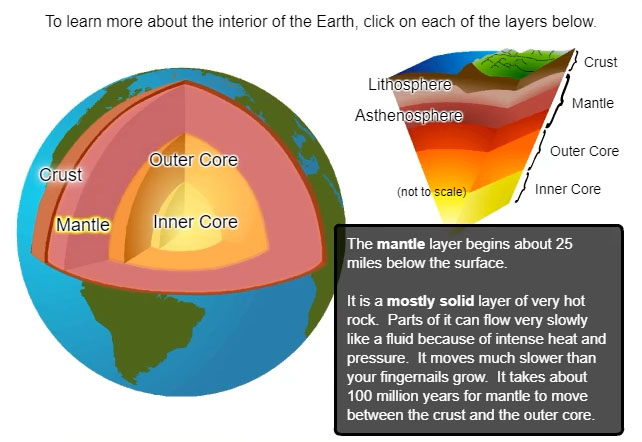
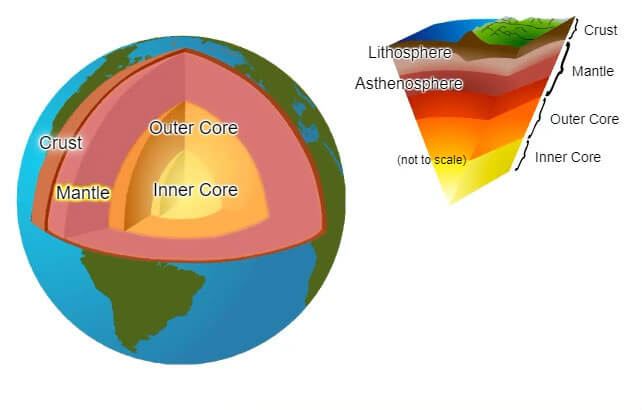
Added keyboard accesibility and ARIA attributes, moved intro and layer description text out of images into HTML elements

diff --git a/layers-of-the-earth.html b/layers-of-the-earth.html
@@ -1,88 +1,228 @@
 <style>
-  .layer {
-    cursor: pointer;
+  html {
+    box-sizing: border-box;
+    font-size: 15px;
+    font-family: Roboto, 'Helvetica Neue', sans-serif;
   }
+
+  body {
+    margin: 0;
+    padding: 8px;
+  }
+
+  *, *:before, *:after {
+    box-sizing: inherit;
+  }
+
+  h1, h2, h3, h4, h5, h6 {
+    margin: 0;
+    padding: 0;
+  }
+
+  p {
+    margin: 8px 0;
+  }
+
+  h4 {
+    text-align: center;
+  }
+
+  #layers {
+    display: block;
+    margin: auto;
+    max-width: 100%;
+    height: auto;
+    max-height: 410px;
+  }
+
   .layer:hover {
     fill: rgb(50, 205, 50, 0.6);
+  }
+
+  .layer-description {
+    border: 2px solid black;
+    border-radius: 6px;
+    max-width: 600px;
+    margin: 0 auto;
+    padding: 0 8px;
+    background-color: black;
+    background-color: rgba(0,0,0,0.7);
+    color: white;
   }
 </style>
 <script>
   function setImage(layerName) {
+    event.preventDefault();
     document.getElementById('layerImage').setAttribute('xlink:href', `${layerName}.jpg`);
+    var tabs = document.querySelectorAll('[role=tab]');
+    for (t = 0; t < tabs.length; t++) {
+      tabs[t].setAttribute('aria-selected', false);
+    }
+    event.currentTarget.setAttribute('aria-selected', 'true');
+    var panels = document.querySelectorAll('[role=tabpanel]');
+    for (p = 0; p < panels.length; p++) {
+      panels[p].setAttribute('hidden', true);
+    }
+    document.getElementById(`${layerName}-description`).removeAttribute('hidden');
   }
 </script>
-<svg width="642" height="442" style="display: block; margin: auto">
-  <image
-    id="layerImage"
-    xlink:href="main.jpg"
-    width="642"
-    height="442"
-    onclick="setImage('main')"
-  ></image>
-  <rect
-    x="30"
-    y="160"
-    width="65"
-    height="30"
-    stroke="black"
-    fill="transparent"
-    stroke-width="1"
-    class="layer"
-    onclick="setImage('crust')"
-  />
-  <rect
-    x="45"
-    y="210"
-    width="75"
-    height="30"
-    stroke="black"
-    fill="transparent"
-    stroke-width="1"
-    class="layer"
-    onclick="setImage('mantle')"
-  />
-  <rect
-    x="140"
-    y="145"
-    width="110"
-    height="30"
-    stroke="black"
-    fill="transparent"
-    stroke-width="1"
-    class="layer"
-    onclick="setImage('outer-core')"
-  />
-  <rect
-    x="140"
-    y="206"
-    width="110"
-    height="30"
-    stroke="black"
-    fill="transparent"
-    stroke-width="1"
-    class="layer"
-    onclick="setImage('inner-core')"
-  />
-  <rect
-    x="355"
-    y="68"
-    width="110"
-    height="30"
-    stroke="black"
-    fill="transparent"
-    stroke-width="1"
-    class="layer"
-    onclick="setImage('lithosphere')"
-  />
-  <rect
-    x="345"
-    y="100"
-    width="130"
-    height="30"
-    stroke="black"
-    fill="transparent"
-    stroke-width="1"
-    class="layer"
-    onclick="setImage('asthenosphere')"
-  />
+<h4>To learn more about the interior of the Earth, click on each of the layers below.</h4>
+<svg id="layers"
+     viewBox="0 0 642 410"
+     width="642"
+     height="410"
+     style="display: block; margin: auto; max-width: 100%;"
+     role="tablist">
+  <desc>This is an graphic showing the layers of the Earth. Each layer can be selected, which will
+    display text describing the corresponding layer below this image.</desc>
+  <a href="#"
+     aria-label="Clear selection"
+     onclick="setImage('main')">
+    <image id="layerImage"
+           xlink:href="main.jpg"
+           width="642"
+           height="442"></image>
+  </a>
+  <a id="crust"
+     href="#"
+     aria-label="Crust"
+     role="tab"
+     aria-selected="false"
+     onclick="setImage('crust')">
+    <rect x="30"
+          y="143"
+          width="65"
+          height="30"
+          stroke="black"
+          fill="transparent"
+          stroke-width="1"
+          class="layer" />
+  </a>
+  <a id="mantle"
+     href="#"
+     aria-label="Mantle"
+     role="tab"
+     aria-selected="false"
+     onclick="setImage('mantle')">
+    <rect x="45"
+          y="193"
+          width="75"
+          height="30"
+          stroke="black"
+          fill="transparent"
+          stroke-width="1"
+          class="layer" />
+  </a>
+  <a id="outer-core"
+     href="#"
+     aria-label="Outer Core"
+     role="tab"
+     aria-selected="false"
+     onclick="setImage('outer-core')">
+    <rect x="140"
+          y="128"
+          width="110"
+          height="30"
+          stroke="black"
+          fill="transparent"
+          stroke-width="1"
+          class="layer" />
+  </a>
+  <a id="inner-core"
+     href="#"
+     aria-label="Inner Core"
+     role="tab"
+     aria-selected="false"
+     onclick="setImage('inner-core')">
+    <rect x="140"
+          y="190"
+          width="110"
+          height="30"
+          stroke="black"
+          fill="transparent"
+          stroke-width="1"
+          class="layer" />
+  </a>
+  <a id="lithosphere"
+     href="#"
+     aria-label="Lithosphere"
+     role="tab"
+     aria-selected="false"
+     onclick="setImage('lithosphere')">
+    <rect x="355"
+          y="52"
+          width="110"
+          height="30"
+          stroke="black"
+          fill="transparent"
+          stroke-width="1"
+          class="layer" />
+  </a>
+  <a id="asthenosphere"
+     href="#"
+     aria-label="Asthenosphere"
+     role="tab"
+     aria-selected="false"
+     onclick="setImage('asthenosphere')">
+    <rect x="345"
+          y="84"
+          width="130"
+          height="30"
+          stroke="black"
+          fill="transparent"
+          stroke-width="1"
+          class="layer" />
+  </a>
 </svg>
+<div id="crust-description"
+     class="layer-description"
+     role="tabpanel"
+     aria-labelledby="crust"
+     hidden>
+  <p>The <b>crust</b> is the outermost layer of the Earth.</p>
+  <p>It is a <b>solid</b> layer that includes both dry land (continental crust) and the ocean floor
+    (oceanic crust).</p>
+</div>
+<div id="mantle-description"
+     class="layer-description"
+     role="tabpanel"
+     aria-labelledby="mantle"
+     hidden>
+  <p>The <b>mantle</b> layer begins about 25 miles below the surface.</p>
+  <p>It is a <b>mostly solid</b> layer of very hot rock. Parts of it can flow very slowly like a
+    fluid because of intense heat and pressure. It moves much slower than your fingernails grow. It
+    takes about 100 million years for rock in the mantle to move between the crust and the outer
+    core.</p>
+</div>
+<div id="outer-core-description"
+     class="layer-description"
+     role="tabpanel"
+     aria-labelledby="outer-core"
+     hidden>
+  <p>The <b>outer core</b> is a <b>liquid</b> layer of melted metal, mainly iron and nickle.</p>
+</div>
+<div id="inner-core-description"
+     class="layer-description"
+     role="tabpanel"
+     aria-labelledby="inner-core"
+     hidden>
+  <p>The <b>inner core</b> is a <b>solid</b> layer of iron and nickle.</p>
+</div>
+<div id="lithosphere-description"
+     class="layer-description"
+     role="tabpanel"
+     aria-labelledby="lithosphere"
+     hidden>
+  <p>The <b>lithosphere</b> is a combination of the crust and the uppermost layer of the mantle.</p>
+  <p>It is very rigid nd does not flow. It contains the <b>tectonic plates</b>.</p>
+</div>
+<div id="asthenosphere-description"
+     class="layer-description"
+     role="tabpanel"
+     aria-labelledby="asthenosphere"
+     hidden>
+  <p>The <b>asthenosphere</b> is the layer of the mantle beneath the lithosphere.</p>
+  <p>It is <b>mostly solid</b> rock. Parts of it can flow very slowly like a fluid because of
+    intense heat and pressure. It moves much slower than your fingernails grow. It takes about 100
+    million years for rock in the mantle to move between the crust and the outer core.</p>
+</div>
